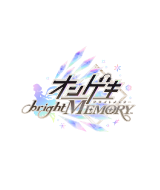
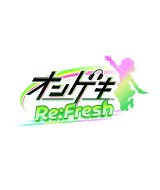
Chifuyu Serverのページ更新など

Changed region(s): [[0.125, 0.2368, 0.9375, 0.7105]]

diff --git a/pages/index.vue b/pages/index.vue
@@ -95,8 +95,8 @@
       <Skill src="vue" title="Vue.js" lv="5" />
       <Skill src="nuxt" title="Nuxt.js" lv="5" />
       <Skill src="python" title="Python" lv="4" />
-      <Skill src="chunithm" title="チュウニズム LUMINOUS PLUS" lv="4" />
-      <Skill src="ongeki" title="オンゲキ bright MEMORY" lv="3" />
+      <Skill src="chunithm" title="チュウニズム VERSE" lv="4" />
+      <Skill src="ongeki" title="オンゲキ Re:Fresh" lv="3" />
       <Skill src="illustrator" title="Adobe Illustrator" lv="3" />
       <Skill src="indesign" title="Adobe InDesign" lv="3" />
       <Skill src="electron" title="Electron" lv="3" />
